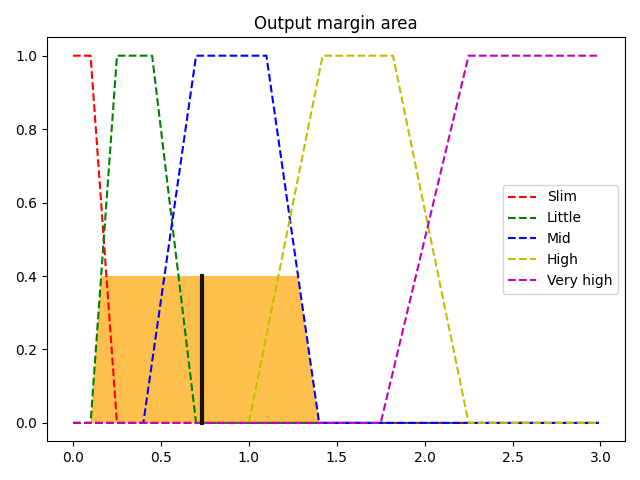
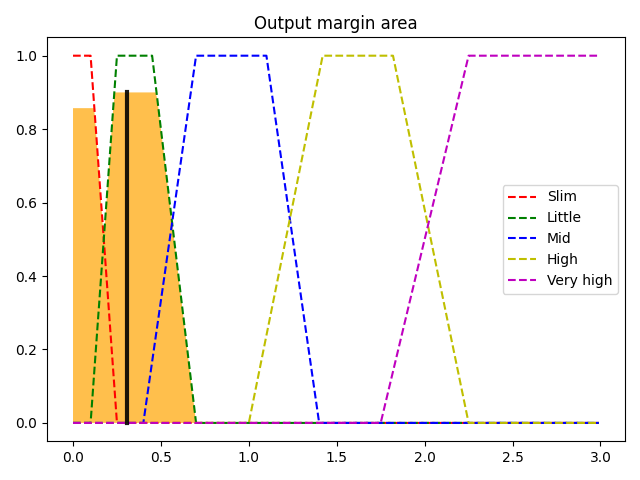
Added details to README.md

Changed region(s): [[0.0938, 0.1875, 0.5, 0.9062]]

diff --git a/src/main.py b/src/main.py
@@ -2,12 +2,12 @@ from src.fuzzy.InferenceSystem import FuzzyInferenceSystem as Fis
 
 # Inputs--------------------------------------------------------------------------------------------------------------#
 basePrice_usd = 50                       # Base price of the products
-productLifetime_years = 7                # How long has the product bee on the market
-monthlyActive_kUsers = 75                # How many monthly active users use the product
-thirdParty_integrations = 3              # How many third party integrations does the product offer
-enterprise_features = 1                  # How many enterprise features does the product offer
+productLifetime_years = 9                # How long has the product bee on the market
+monthlyActive_kUsers = 1                # How many monthly active users use the product
+thirdParty_integrations = 5              # How many third party integrations does the product offer
+enterprise_features = 0                  # How many enterprise features does the product offer
 branding_percent = 5                     # What percentage of revenue is spent on marketing
-targetAudienceMeanIncome_kUsd = 110      # Mean income of the targeted audience
+targetAudienceMeanIncome_kUsd = 15      # Mean income of the targeted audience
 # Inputs--------------------------------------------------------------------------------------------------------------#
 
 # Initialization of the Fuzzy Inference System

diff --git a/src/fuzzy/Set.py b/src/fuzzy/Set.py
@@ -19,7 +19,7 @@ class FuzzySet:
 
     def plot(self):
         # comment line below to plot MF
-        # return self
+        return self
 
         plots_dir_path = os.path.abspath("../plots")
         fig, ax0 = plt.subplots()

diff --git a/README.md b/README.md
@@ -1,6 +1,6 @@
 # Value-Based pricing suggestions for SaaS products using Fuzzy Logic
 
-In this project we have built a Mamdani style Fuzzy Inference System (FIS) that takes as an input a number of environmental crisp parameters of a Software as a Service (SaaS) product which and returns a suggested profit margin that can be any value for 10% to 300%. We chose the Mamdani type of system because its intuitiveness, suitability for human input and easily interpretable rule base was suitable for the approach we took to solve the problem.
+In this project we have built a Mamdani style Fuzzy Inference System (FIS) that takes as an input a number of environmental crisp parameters of a Software as a Service (SaaS) product which and returns a suggested profit margin that can be any value for 5% to 300%. We chose the Mamdani type of system because its intuitiveness, suitability for human input and easily interpretable rule base was suitable for the approach we took to solve the problem.
 
 ## Getting started
 
@@ -10,20 +10,19 @@ In this project we have built a Mamdani style Fuzzy Inference System (FIS) that 
 
 ## Structure
 
-The system follows a MISO (Multi Input Single Output) structure, consists of X rule bases and is composed of three main modules, fuzzification, inference and defuzzification. The input fuzzy sets and rules are generated using common sense by experienced field experts so the system is built with modularity and readability in mind so changing the parameters or rules can be as easy as possible.
+The system follows a MISO (Multi Input Single Output) structure, consists of 32 rule bases and is composed of three main modules, fuzzification, inference and defuzzification. The input fuzzy sets and rules are generated using common sense by experienced field experts so the system is built with modularity and readability in mind so changing the parameters or rules can be as easy as possible.
 
 ### Fuzzy Sets
 
 Listed below are all the fuzzy sets that we use in our system. For our purposes we used only `trapezoidal` and `triangular` membership functions to represent each of the subsets.
 
-* [Value-based pricing article](https://www.smartkarrot.com/resources/blog/value-based-pricing/)
-  * Product age (early, mid, mature)
-  * Monthly active users (low, mid, high)
-  * Third party integrations (low, mid, high)
-  * Enterprise features (low, mid, high)
-  * Branding (budget, value, premium)
-  * Product rating (poor, fair, good)
-  * Target audience mean income (low, mid, high)
+* Product age (early, mid, mature)
+* Monthly active users (low, mid, high)
+* Third party integrations (low, mid, high)
+* Enterprise features (low, mid, high)
+* Branding (budget, value, premium)
+* Product rating (poor, fair, good)
+* Target audience mean income (low, mid, high)
 
 ### Fuzzification
 
@@ -47,8 +46,7 @@ Currently, the system is validated by human reasoning but in the future a testin
 
 ## Experts
 
-John Doe - john.doe@gmail.com\
-John Doe - john.doe@gmail.com
+David Henzel - https://www.davidhenzel.com/
 
 ## Collaborators
 
